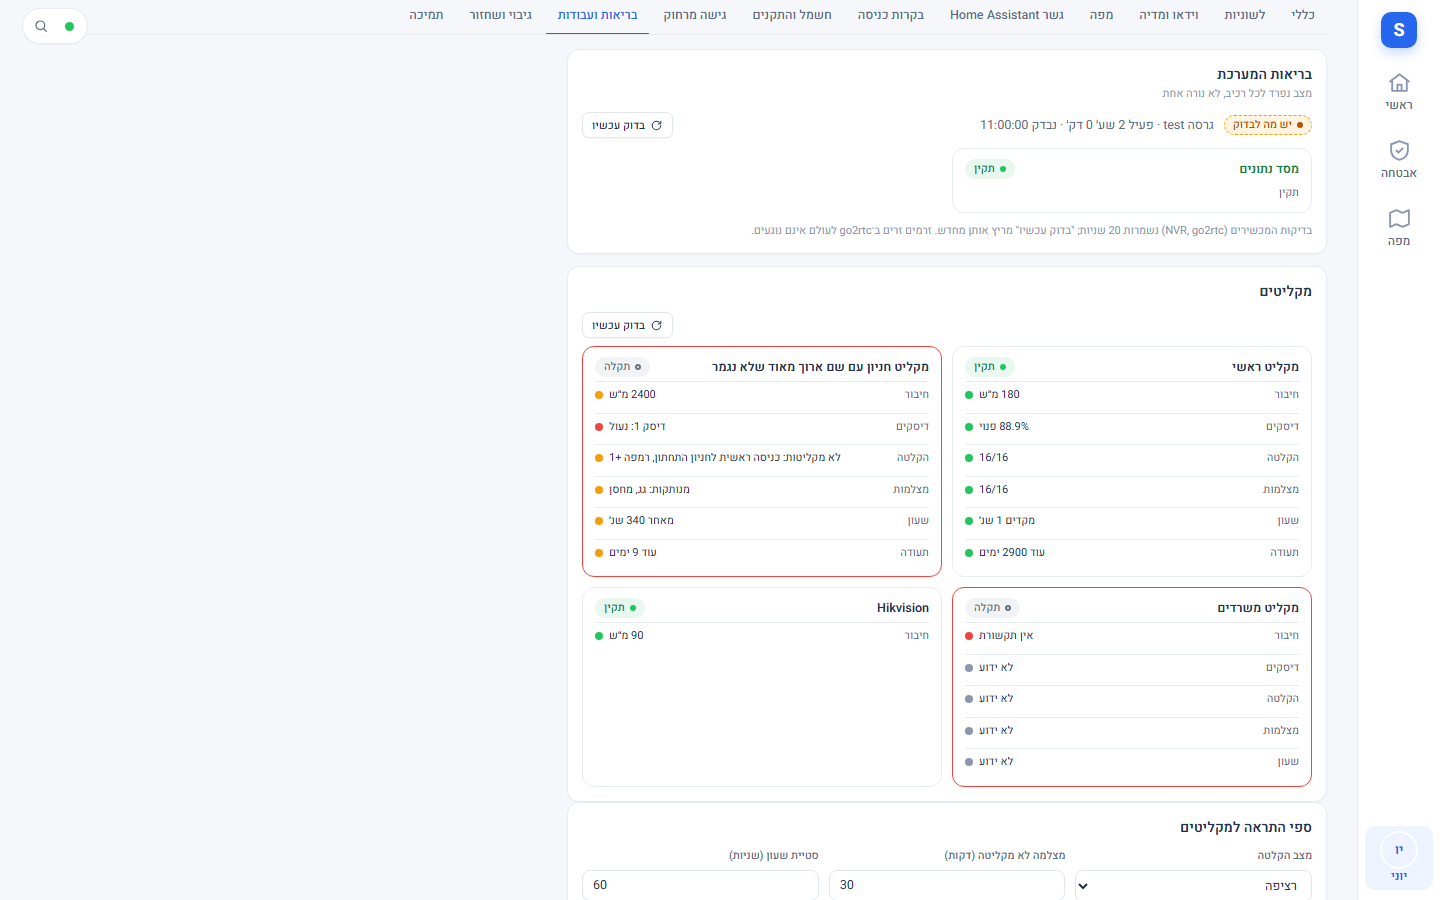
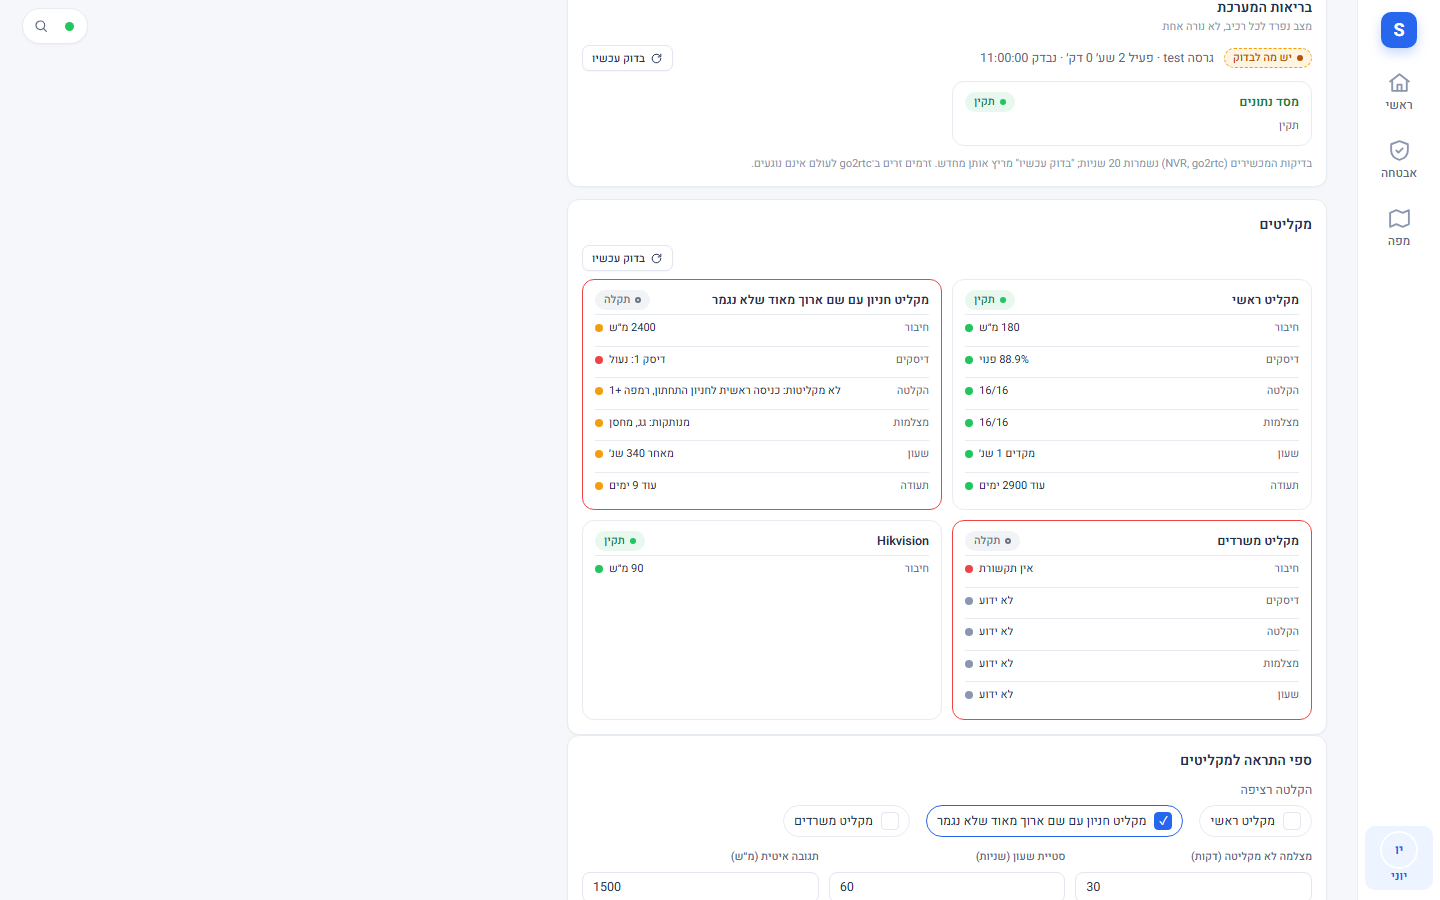
feat(cr-026): per-recorder continuous-recording choice in the thresholds card (chips, 44px in bubble); guard re-run

diff --git a/frontend/src/components/recorder-health-panel.ts b/frontend/src/components/recorder-health-panel.ts
@@ -13,7 +13,7 @@ const KIND: Record<HealthState, StateKind> = { ok: 'live', warn: 'stale', error:
 const STATUS_TEXT: Record<HealthState, string> = { ok: 'תקין', warn: 'לתשומת לב', error: 'תקלה', unknown: 'לא ידוע', off: '' };
 
 /** The thresholds the settings card edits, in screen order: key, label, unit. */
-const FIELDS: { key: Exclude<keyof HealthThresholds, 'recording_mode'>; label: string; unit: string }[] = [
+const FIELDS: { key: Exclude<keyof HealthThresholds, 'continuous_recorders'>; label: string; unit: string }[] = [
   { key: 'recording_gap_min', label: 'מצלמה לא מקליטה', unit: 'דקות' },
   { key: 'clock_drift_s', label: 'סטיית שעון', unit: 'שניות' },
   { key: 'latency_ms', label: 'תגובה איטית', unit: 'מ״ש' },
@@ -188,8 +188,63 @@ export class RecorderHealthPanel extends LitElement {
       box-sizing: border-box;
     }
     :host([data-skin='bubble']) .ths input,
-    :host([data-skin='bubble']) .ths select {
+    :host([data-skin='bubble']) .ths select,
+    :host([data-skin='bubble']) .chk {
       min-block-size: 44px; /* the bubble skin's touch target */
+    }
+    .cont {
+      display: flex;
+      flex-wrap: wrap;
+      align-items: center;
+      gap: 6px 16px;
+      margin-block-end: 12px;
+      font-size: var(--sw-fs-sm);
+    }
+    .cont-h {
+      color: var(--sw-text-2);
+      inline-size: 100%;
+    }
+    .chk {
+      display: inline-flex;
+      align-items: center;
+      gap: 8px;
+      min-block-size: 32px;
+      max-inline-size: 100%;
+      padding: 0 10px;
+      border: 1px solid var(--sw-border);
+      border-radius: var(--sw-r-pill);
+      background: var(--sw-surface);
+      color: var(--sw-text);
+      font: inherit;
+      cursor: pointer;
+    }
+    .chk[aria-pressed='true'] {
+      border-color: var(--sw-accent);
+    }
+    .chk span {
+      overflow: hidden;
+      text-overflow: ellipsis;
+      white-space: nowrap;
+    }
+    .chk .box {
+      inline-size: 16px;
+      block-size: 16px;
+      border-radius: 4px;
+      border: 1px solid var(--sw-border-strong, var(--sw-border));
+      display: inline-flex;
+      align-items: center;
+      justify-content: center;
+      font-size: 12px;
+      font-style: normal;
+      flex-shrink: 0;
+    }
+    .chk[aria-pressed='true'] .box {
+      background: var(--sw-accent);
+      border-color: var(--sw-accent);
+      color: #fff;
+    }
+    :host([data-skin='bubble']) .chk {
+      min-inline-size: 44px;
     }
     :host([data-skin='bubble']) .card {
       border-color: transparent;
@@ -245,16 +300,23 @@ export class RecorderHealthPanel extends LitElement {
   private thresholds() {
     if (!this.manage || !this.th) return nothing;
     const v = { ...this.th.values, ...this.draft };
+    const cont = v.continuous_recorders ?? [];
+    // only recorders that report recording state can be expected to record continuously
+    const detailed = (this.cards ?? []).filter((c) => c.detail_supported);
     const set = (key: keyof HealthThresholds, value: unknown) => {
       this.draft = { ...this.draft, [key]: value };
       this.saveMsg = null;
     };
     return html`<sw-card heading="ספי התראה למקליטים" data-rh-settings>
+      ${detailed.length ? html`<div class="cont" data-rh-continuous>
+        <span class="cont-h">הקלטה רציפה</span>
+        ${detailed.map((c) => {
+          const on = cont.includes(c.id);
+          return html`<button type="button" class="chk" data-rh-continuous-id=${c.id} aria-pressed=${on ? 'true' : 'false'}
+            @click=${() => set('continuous_recorders', on ? cont.filter((x) => x !== c.id) : [...cont, c.id])}><i class="box" aria-hidden="true">${on ? '✓' : ''}</i><span>${c.name}</span></button>`;
+        })}
+      </div>` : nothing}
       <div class="ths">
-        <sw-field label="מצב הקלטה"><select data-rh-field="recording_mode" @change=${(e: Event) => set('recording_mode', (e.target as HTMLSelectElement).value)}>
-          <option value="continuous" ?selected=${v.recording_mode === 'continuous'}>רציפה</option>
-          <option value="exceptions" ?selected=${v.recording_mode === 'exceptions'}>תקלות בלבד</option>
-        </select></sw-field>
         ${FIELDS.map((f) => {
           const rg = this.th!.ranges[f.key];
           return html`<sw-field label=${`${f.label} (${f.unit})`}><input class="ltr" data-rh-field=${f.key} type="number" inputmode="numeric" min=${rg?.min ?? 0} max=${rg?.max ?? 99999} .value=${String(v[f.key])}

diff --git a/frontend/tests/layout-recorder-health.spec.ts b/frontend/tests/layout-recorder-health.spec.ts
@@ -32,8 +32,8 @@ const CARDS = [
   { id: 'nvr-4', name: 'Hikvision', status: 'ok', checked_at: '2026-10-04T08:00:00Z', detail_supported: false, api: { state: 'ok', latency_ms: 90 },
     disks: ok('off'), recording: ok('off'), channels: ok('off'), clock: ok('off'), certificate: ok('off') },
 ];
-const RANGES = { interval_s: [60, 30, 900], latency_ms: [1500, 200, 10000], recording_gap_min: [30, 5, 1440], clock_drift_s: [60, 5, 3600], disk_fill_days: [3, 0, 60], cert_days: [30, 1, 365], recover_s: [120, 0, 3600] };
-const VALUES = { ...Object.fromEntries(Object.entries(RANGES).map(([k, v]) => [k, v[0]])), recording_mode: 'continuous' };
+const RANGES = { interval_s: [60, 30, 900], latency_ms: [1500, 200, 10000], recording_gap_min: [30, 5, 1440], clock_drift_s: [60, 5, 3600], disk_fill_days: [0, 0, 60], cert_days: [30, 1, 365], recover_s: [120, 0, 3600] };
+const VALUES = { ...Object.fromEntries(Object.entries(RANGES).map(([k, v]) => [k, v[0]])), continuous_recorders: ['nvr-2'] };
 
 async function mock(page: Page) {
   await page.route('**/api/v1/**', async (route) => {
@@ -47,7 +47,7 @@ async function mock(page: Page) {
     if (p === 'health') return json({ status: 'ok', version: 'test', mode: 'full' });
     if (p.startsWith('health/report')) return json({ status: 'warn', mode: 'full', version: 'test', uptime_s: 7200, checked_at: '2026-10-04T08:00:00Z', probe_ttl_s: 20, checks: [{ id: 'db', label: 'מסד נתונים', status: 'ok', detail: 'תקין', meta: {} }] });
     if (p === 'recorder-health') return json({ recorders: CARDS, interval_s: 60, can_manage: true });
-    if (p === 'recorder-health/settings') return json({ values: VALUES, ranges: Object.fromEntries(Object.entries(RANGES).map(([k, v]) => [k, { default: v[0], min: v[1], max: v[2] }])), recording_modes: ['continuous', 'exceptions'] });
+    if (p === 'recorder-health/settings') return json({ values: VALUES, ranges: Object.fromEntries(Object.entries(RANGES).map(([k, v]) => [k, { default: v[0], min: v[1], max: v[2] }])) });
     if (p.startsWith('rules/alerts')) return json({ alerts: [], unacked: 0 });
     if (p === 'sites') return json({ sites: [], can_create_site: false });
     return json({ code: 'not_found', user_message: 'לא נמצא (בדיקה)', retryable: false, correlation_id: '', details: {} }, 404);
@@ -79,6 +79,9 @@ test.describe('recorder health layout guard', () => {
         await expect(panel.locator('[data-rh-card]')).toHaveCount(4);
         await expect(panel.locator('[data-rh-card="nvr-4"] [data-rh-row]')).toHaveCount(1); // reachability only
         await expect(panel.locator('[data-rh-card="nvr-1"] [data-rh-row]')).toHaveCount(6);
+        await expect(panel.locator('[data-rh-continuous-id]')).toHaveCount(3); // the recorders that report recording state
+        await expect(panel.locator('[data-rh-continuous-id="nvr-2"]')).toHaveAttribute('aria-pressed', 'true');
+        await expect(panel.locator('[data-rh-continuous-id="nvr-1"]')).not.toHaveAttribute('aria-pressed', 'true');
         for (const w of WIDTHS) {
           await page.setViewportSize({ width: w, height: height(w) });
           await page.waitForTimeout(150);

diff --git a/frontend/src/api/recorder-health.ts b/frontend/src/api/recorder-health.ts
@@ -38,13 +38,12 @@ export interface HealthThresholds {
   disk_fill_days: number;
   cert_days: number;
   recover_s: number;
-  recording_mode: 'continuous' | 'exceptions';
+  continuous_recorders: string[];
 }
 
 export interface ThresholdsAnswer {
   values: HealthThresholds;
   ranges: Record<string, { default: number; min: number; max: number }>;
-  recording_modes: string[];
 }
 
 export const recorderHealth = () => get<RecorderHealthList>('recorder-health');
